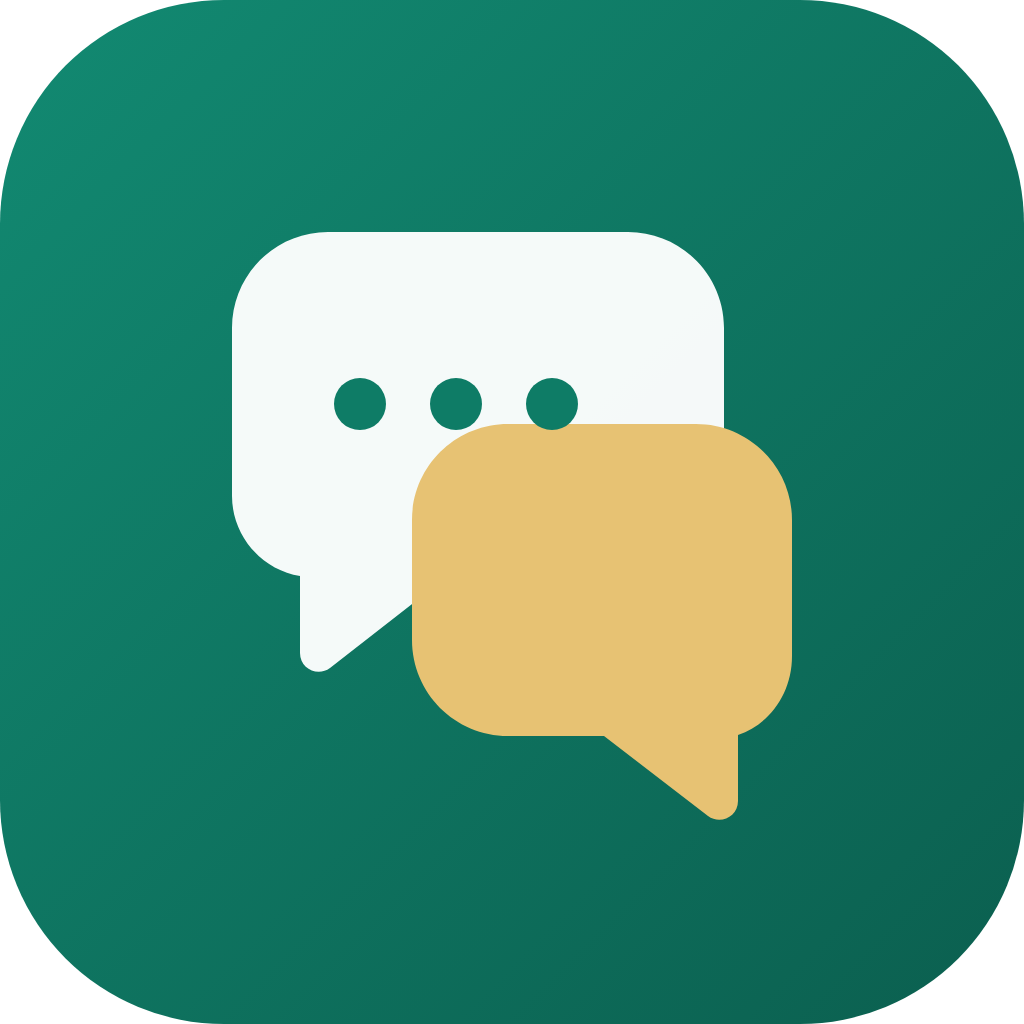
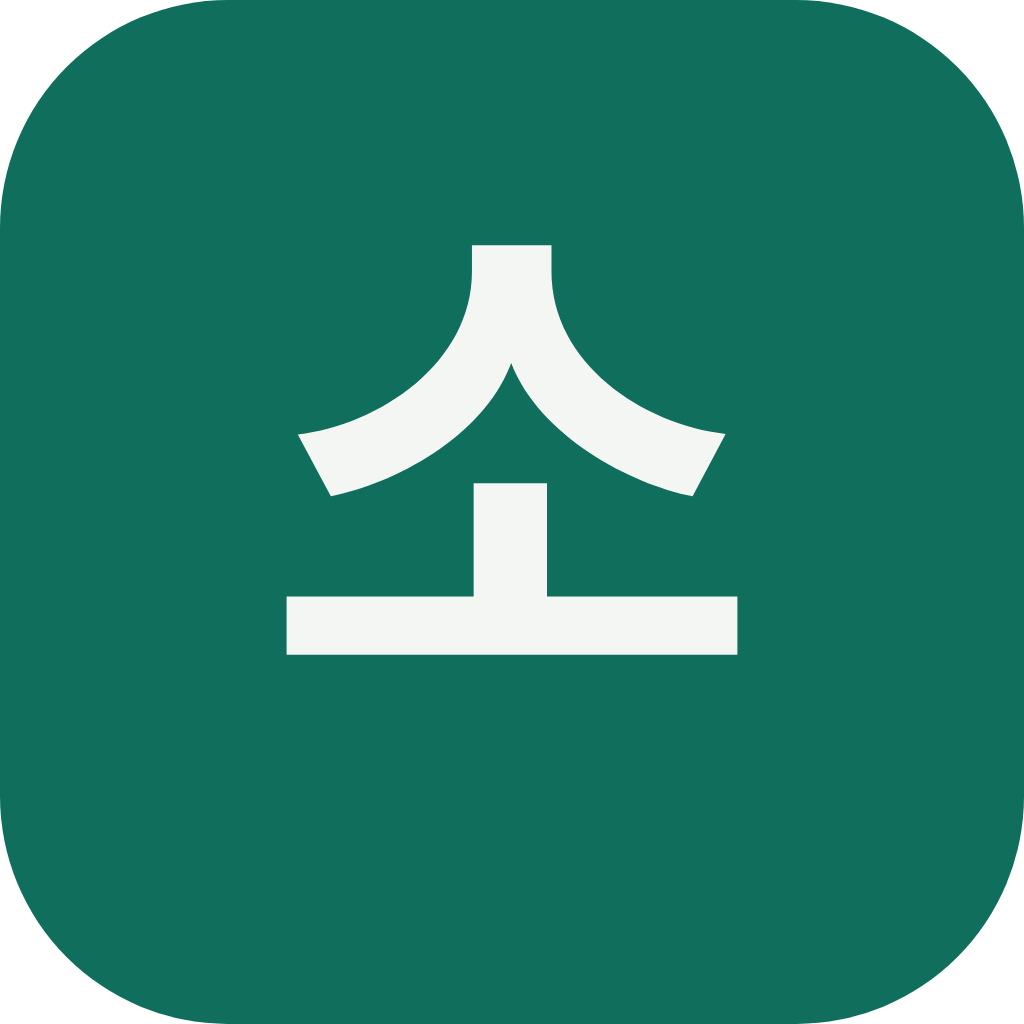
fix(llm): key cooldowns are per model; judge on the base model; hourly sweep of stuck candidates
Gemini free-tier quotas are per project *and* model
(GenerateRequestsPerDayPerProjectPerModel-FreeTier). gemini-3.7-flash allows
only ~20 requests/day per key, so a day cooldown on it must not block
gemini-3.5-flash-lite on the same key. Judge moves to the base model; only
drafts use the stronger one. A wordmark icon replaces the crude bubbles.

Changed region(s): [[0.2188, 0.2188, 0.7812, 0.8125]]

diff --git a/src/infra/llm/providers.ts b/src/infra/llm/providers.ts
@@ -18,8 +18,9 @@ export type LlmResult = { json: unknown; provider: LlmProvider; model: string; k
 
 /** 서버 키 풀 상태 접근. 앱 층이 DB 기반으로 만들어 넘긴다. 없으면 무상태 순환. */
 export type KeyPoolOps = {
-  order: (labels: string[]) => Promise<string[]>;
-  report: (r: { label: string; ok: boolean; status?: number; body?: string }) => Promise<void>;
+  /** 모델별로 상태를 본다. Gemini 무료 쿼터는 프로젝트·모델 단위. */
+  order: (labels: string[], model: string) => Promise<string[]>;
+  report: (r: { label: string; model: string; ok: boolean; status?: number; body?: string }) => Promise<void>;
 };
 
 export const DEFAULT_MODEL: Record<Exclude<LlmProvider, "local-agent">, string> = {
@@ -27,15 +28,13 @@ export const DEFAULT_MODEL: Record<Exclude<LlmProvider, "local-agent">, string> 
   openai: "gpt-5",
   anthropic: "claude-opus-5",
 };
-/**
- * 판단과 초안은 한 단계 위 모델. 다이제스트(추리기)는 기본 모델로 충분하다.
- * flash-lite로 판단하면 같은 후보가 실행마다 4점과 6점을 오갔다.
- */
+/** 초안은 한 단계 위 모델. 다이제스트·판단은 기본 모델 (판단 편차는 가중치와 임계로 흡수). */
 export const DEFAULT_DRAFT_MODEL: Partial<Record<LlmProvider, string>> = { gemini: "gemini-3.7-flash" };
 
 export function modelFor(config: LlmConfig, kind: "digest" | "judge" | "draft"): string {
   if (config.provider === "local-agent") return config.agentCli ?? "claude";
-  if (kind !== "digest") return config.draftModel?.trim() || DEFAULT_DRAFT_MODEL[config.provider] || config.model?.trim() || DEFAULT_MODEL[config.provider];
+  // 초안만 상위 모델. 판단은 기본 모델로 (무료 티어에서 3.7-flash의 일일 한도가 20 안팎이라 판단까지 쓰면 하루도 못 간다).
+  if (kind === "draft") return config.draftModel?.trim() || DEFAULT_DRAFT_MODEL[config.provider] || config.model?.trim() || DEFAULT_MODEL[config.provider];
   return config.model?.trim() || DEFAULT_MODEL[config.provider];
 }
 
@@ -140,18 +139,18 @@ export async function runLlm(config: LlmConfig, req: LlmRequest, kind: "digest" 
   // 바퀴마다 상태를 다시 읽는다: 쿨다운에 들어간 키는 빠지고, LRU 순서로 돈다.
   for (let round = 0; round < 3; round++) {
     if (round > 0) await new Promise((r) => setTimeout(r, 4000 * round));
-    const labels = pool ? await pool.order(all.map((k) => k.label)) : rotateStateless(all.map((k) => k.label));
+    const labels = pool ? await pool.order(all.map((k) => k.label), model) : rotateStateless(all.map((k) => k.label));
     if (labels.length === 0) throw new LlmError("쓸 수 있는 Gemini 무료 키가 없습니다 (전부 쿨다운 또는 일일 상한)", 429, true);
     for (const label of labels) {
       const key = byLabel.get(label)!;
       try {
         const res = await openaiCompatible(GEMINI_OPENAI_BASE, key, model, req, label);
-        await pool?.report({ label, ok: true });
+        await pool?.report({ label, model, ok: true });
         return res;
       } catch (e) {
         lastErr = e;
         if (e instanceof LlmError) {
-          await pool?.report({ label, ok: false, status: e.status, body: e.body });
+          await pool?.report({ label, model, ok: false, status: e.status, body: e.body });
           if (e.retryable) {
             if (e.status === 503) break; // 모델 수요 문제: 키를 바꿔도 같다. 쉬었다 다음 바퀴
             continue; // 429: 이 키는 쿨다운에 들어갔고 다음 키로

diff --git a/src/app/keys.ts b/src/app/keys.ts
@@ -8,22 +8,23 @@ import { emit, type AppContext } from "./context.js";
 /** 서버 Gemini 무료 키 풀 상태 (AI_API.md 운영 기준). */
 export function keyPoolOps(ctx: AppContext): KeyPoolOps {
   return {
-    order: async (labels) => {
+    order: async (labels, model) => {
       const now = Date.now();
       const day = ptDayKey(now);
       const rows = ctx.db.select().from(schema.llmKeyState).all();
       const by = new Map(rows.map((r) => [r.label, r]));
       return labels
         .filter((l) => {
-          const r = by.get(l);
+          const r = by.get(`${l}|${model}`);
           if (!r) return true;
           if (r.cooldownUntil && r.cooldownUntil > now) return false;
           if (r.dayKey === day && r.dayCount >= RPD_SOFT_CAP) return false;
           return true;
         })
-        .sort((a, b) => (by.get(a)?.lastUsedAt ?? 0) - (by.get(b)?.lastUsedAt ?? 0));
+        .sort((a, b) => (by.get(`${a}|${model}`)?.lastUsedAt ?? 0) - (by.get(`${b}|${model}`)?.lastUsedAt ?? 0));
     },
-    report: async ({ label, ok, status, body }) => {
+    report: async ({ label: base, model, ok, status, body }) => {
+      const label = `${base}|${model}`;
       const now = Date.now();
       const day = ptDayKey(now);
       const row = ctx.db.select().from(schema.llmKeyState).where(eq(schema.llmKeyState.label, label)).get();
@@ -42,6 +43,7 @@ export function keyPoolOps(ctx: AppContext): KeyPoolOps {
 export function keyStatus(ctx: AppContext): KeyStatus[] {
   const day = ptDayKey(Date.now());
   return ctx.db.select().from(schema.llmKeyState).all()
-    .map((r) => ({ label: r.label, todayCount: r.dayKey === day ? r.dayCount : 0, cap: RPD_SOFT_CAP, cooldownUntil: r.cooldownUntil ?? undefined, cooldownReason: r.cooldownReason ?? undefined, lastUsedAt: r.lastUsedAt, lastQuotaId: r.lastQuotaId ?? undefined }))
+    .filter((r) => r.label.includes("|"))
+    .map((r) => ({ label: r.label.replace("|", " · "), todayCount: r.dayKey === day ? r.dayCount : 0, cap: RPD_SOFT_CAP, cooldownUntil: r.cooldownUntil ?? undefined, cooldownReason: r.cooldownReason ?? undefined, lastUsedAt: r.lastUsedAt, lastQuotaId: r.lastQuotaId ?? undefined }))
     .sort((a, b) => a.label.localeCompare(b.label, undefined, { numeric: true }));
 }

diff --git a/src/app/scheduler.ts b/src/app/scheduler.ts
@@ -1,12 +1,19 @@
 import { Cron } from "croner";
 import { collectAll } from "./collect.js";
 import type { AppContext } from "./context.js";
+import { processNewCandidates } from "./pipeline.js";
 
 /** 매일 수집 → (수집 안에서) 다이제스트·판단·초안. 기본 00:00 UTC = 09:00 KST. */
-export function startScheduler(ctx: AppContext, pattern: string): Cron {
-  return new Cron(pattern, { protect: true, timezone: "UTC" }, async () => {
+export function startScheduler(ctx: AppContext, pattern: string): { stop: () => void } {
+  const daily = new Cron(pattern, { protect: true, timezone: "UTC" }, async () => {
     ctx.log.info("scheduled collect start");
     const r = await collectAll(ctx);
     ctx.log.info({ sources: Object.keys(r).length }, "scheduled collect done");
   });
+  // 쿼터에 막혀 남은 new 후보를 매시간 다시 태운다 (키 쿨다운이 풀리면 이어진다).
+  const sweep = new Cron("7 * * * *", { protect: true, timezone: "UTC" }, async () => {
+    const n = await processNewCandidates(ctx);
+    if (n) ctx.log.info({ n }, "hourly sweep processed new candidates");
+  });
+  return { stop: () => { daily.stop(); sweep.stop(); } };
 }

diff --git a/src/infra/db/schema.ts b/src/infra/db/schema.ts
@@ -142,6 +142,7 @@ export const settings = sqliteTable("settings", {
 });
 
 export const llmKeyState = sqliteTable("llm_key_state", {
+  /** "free-1" 또는 "free-1|gemini-3.7-flash" — 쿼터는 프로젝트·모델 단위라 모델별로 따로 센다. */
   label: text("label").primaryKey(),
   lastUsedAt: integer("last_used_at").notNull(),
   cooldownUntil: integer("cooldown_until"),
